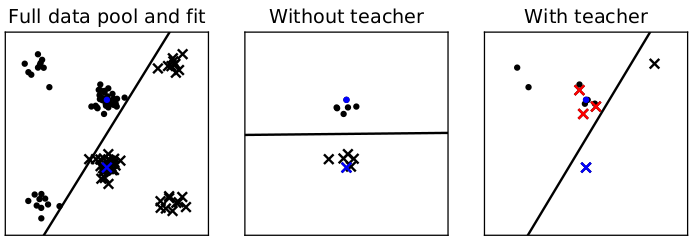
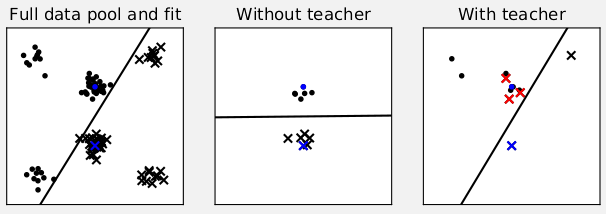
Update figure and its caption

diff --git a/index.md b/index.md
@@ -3,7 +3,7 @@
  * [code](https://github.com/AaltoPML/machine-teaching-of-active-sequential-learners/)
 
 ![Active learning example](active_learning_figure.png)  
-The figure shows an example of teaching effect on pool-based logistic regression active learner. The left-panel shows a pool of labelled data (dots and crosses) and a logistic regression decision boundary fit to the full pool. The middle panel shows how an active learner, using uncertainty sampling to query labels for points in the data pool, fails to sample useful points in 10 iterations to learn a good decision boundary (starting from blue training data). As shown in the right panel, a planning teacher can steer the learner to sample more representative points by switching some labels (switched labels are shown in red).
+The figure shows an example of teaching effect on pool-based logistic regression active learner. The left-panel shows a pool of labelled data (dots and crosses) and a logistic regression decision boundary fit to the full pool (black line). The middle panel shows how an active learner, using uncertainty sampling to query labels for points in the data pool, fails to sample useful points in 10 iterations to learn a good decision boundary (starting from blue training data). As shown in the right panel, a planning teacher can steer the learner to sample more representative points by switching some labels (switched labels are shown in red).
 
 **Abstract**:
 
